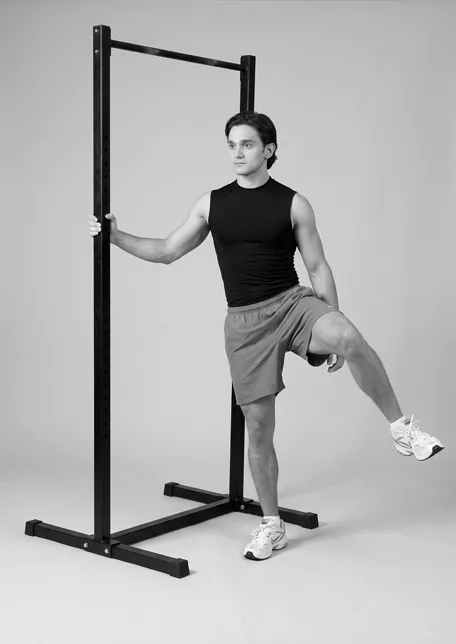
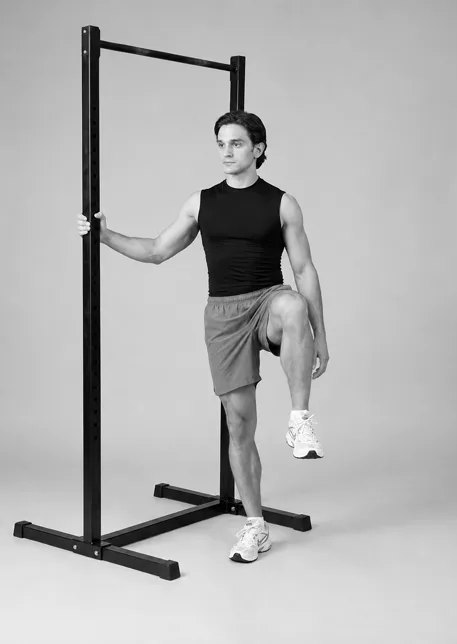
Mobility-Bilder nachgebessert: CARs mit zwei Bildern, 90/90-Ende gespiegelt, Knie zur Wand mit Wandkontakt

Changed region(s): [[0.0307, 0.0311, 0.9825, 0.9006]]

diff --git a/app/src/data/mobilityExercises.ts b/app/src/data/mobilityExercises.ts
@@ -45,7 +45,7 @@ export const MOBILITY_EXERCISES: Exercise[] = [
   },
   {
     id: 'shoulder-cars', name: 'Schulter-CARs', category: 'mobility',
-    primary: ['schulter_vorn', 'schulter_seit', 'schulter_hinten'], secondary: [], loadType: 'none', unit: 'seconds', genImage: 'shoulder_cars', noEndPhoto: true,
+    primary: ['schulter_vorn', 'schulter_seit', 'schulter_hinten'], secondary: [], loadType: 'none', unit: 'seconds', genImage: 'shoulder_cars',
     equipment: 'Ohne Gerät',
     setup: 'Aufrecht stehen, ein Arm gestreckt, Faust locker geschlossen, Rumpf angespannt.',
     steps: ['Den gestreckten Arm langsam vor dem Körper nach oben führen, oben die Handfläche nach außen drehen.', 'Hinter dem Körper wieder nach unten, so weit hinten wie möglich, ohne den Rumpf zu drehen.', 'Ein Kreis dauert etwa 10 s. Beide Seiten.'],
@@ -53,7 +53,7 @@ export const MOBILITY_EXERCISES: Exercise[] = [
   },
   {
     id: 'hip-cars', name: 'Hüft-CARs', category: 'mobility',
-    primary: ['huefte', 'gesaess'], secondary: ['bauch'], loadType: 'none', unit: 'seconds', genImage: 'hip_cars', noEndPhoto: true,
+    primary: ['huefte', 'gesaess'], secondary: ['bauch'], loadType: 'none', unit: 'seconds', genImage: 'hip_cars',
     equipment: 'Wand oder Gestell zum Abstützen',
     setup: 'Im Stand, eine Hand am Gestell, Standbein leicht gebeugt, Rumpf fest.',
     steps: ['Das Knie langsam nach vorn oben heben (Hüftbeugung), dann seitlich nach außen öffnen.', 'Aus der Öffnung das Bein nach hinten führen, Knie zeigt nach unten, und wieder nach vorn.', 'Ein Kreis dauert etwa 10 s, der Rumpf bleibt ruhig. Danach die Richtung wechseln. Beide Seiten.'],

diff --git a/docs/Uebergabe.md b/docs/Uebergabe.md
@@ -129,7 +129,7 @@ Umgesetzt, `tsc -b` und `check-plan.mjs` sauber, im Dev-Browser geprüft (Mobili
 - **41 Bilder für die 33 Mobility-Übungen** (38 endgültige, drei Nachbesserungen): 28 Einzelbilder „Haltung“ (`noEndPhoto`) für Halteübungen und Tests, fünf Paare Start/Ende (Cat-Cow, Open Book, Thread the Needle, Wall Slides, 90/90-Übergänge). `genImage` in `mobilityExercises.ts` ist gesetzt. Neue Spezifikation `scripts/kie-jobs/spec-mobility.mjs` (exportiert `TAG = 'mob'`, `MODEL`, `REF_FIELD`); `make.mjs` nimmt jetzt eine Spezifikationsdatei als zweites Argument und schreibt nach `batch-<TAG>-<phase>`. Job-Ordner: `batch-mob-start`, `batch-mob-end`, `batch-mob-redo`, `batch-mob-redo2`, `pilot`.
 - **Modellwahl:** Guthaben war 482 Credits, GPT Image 2 (18 je Bild) hätte nicht gereicht. Pilot: **Nano Banana 2** (`nano-banana-2`, Feld `image_input`) kostet **8 Credits** und trifft Stil und Standardposen; `nano-banana-2-lite` (4 Credits, Feld `image_urls`) verfehlt Posen. Alle 33 Startbilder und 5 Endbilder mit Nano Banana 2; Ausreißer im ersten Durchgang: Couch Stretch (Pilotbild übernommen), tiefe Kniebeuge (zu flach), Cobra (Hüfte in der Luft), 90/90-Test (Kniestand statt Sitz), Sleeper Stretch (Arm flach). Zweiter Durchgang mit Nano Banana 2 löste Kniebeuge und 90/90-Test (mit dem 90/90-Halten-Bild als Posenreferenz), Cobra, Open Book Ende und Sleeper Stretch erst mit **GPT Image 2**. Der User hat zwischendurch auf 1134 Credits aufgeladen; Stand nach dem Lauf 1116. Rohbilder (`.png`, jetzt auch `.jpg`) per `.gitignore` ausgeschlossen, ins Repo kommen nur die WebP-Dateien (alle 73 zusammen 772 kB). Raster zur Sichtung in `public/img/gen/_versuche/mob_raster_*.png` (lokal).
 - Skill `~/.claude/skills/kie-ai` um die gemessenen Preise und die Modellwahl ergänzt.
-- **Rückmeldung vom Handy steht aus** (Bilder und Mobility insgesamt).
+- **Rückmeldung des Users (26.09., abends):** „zumeist schon ganz gut“. Nachgebessert: **Schulter-CARs und Hüft-CARs** haben jetzt zwei Bilder (Arm oben / Arm hinten; Knie vorn / Knie seitlich; das alte Hüft-CARs-Bild wurde das Endbild, das Startbild mit ihm als Referenz erzeugt), **90/90-Übergänge** Endbild ist die gespiegelte Position (linkes Bein vorn), **Knie-zur-Wand-Mobilisation** zeigt jetzt den Wandkontakt (GPT Image 2 und Nano Banana Pro setzen den Fuß hartnäckig zu weit weg; gelöst mit zwei aufeinanderfolgenden Bearbeitungsschritten „move him 30 cm closer“ in Nano Banana Pro, Versuche in `_versuche/knee_wall_*`). Lehre: Bei Abstandsvorgaben zur Wand das Bild iterativ per Edit näher rücken statt neu generieren. Job-Ordner `batch-mob-redo3` bis `redo6`. Übrige Bilder will der User beim Ausführen prüfen; weitere Nachbesserungen bei Bedarf.
 
 ## Nächste Schritte
 

diff --git a/docs/Mobility.md b/docs/Mobility.md
@@ -78,4 +78,4 @@ Dazu zwei Fotos zu den Foto-Check-Terminen (Mehr → Foto-Check): tiefe Kniebeug
 - **Seiten:** `/mobility` (Routinen mit Tagesvorschlag, Check-Termine, Messwerte), Karte auf „Heute“ an Samstag und Sonntag, Hinweiskarte, wenn ein Check fällig ist, Zeile „Mobility ›“ an Trainingstagen, Eintrag unter „Mehr“.
 - **Auswertung:** Abschnitt „Mobility“ (Routinen je Woche, Check-Werte mit Verlauf; bei Überkopf-Reach und 90/90 ist kleiner besser, `LOWER_IS_BETTER` in `workouts.ts`). Mobility-Trainings zählen nicht als Plan-Einheit (`isMobilityWorkout()`, `isExtraWorkout()`).
 - **Fotos:** Posen `kniebeuge` und `ueberkopf` im Foto-Check.
-- **Bilder (26.09.2026):** alle 33 Übungen haben KI-Bilder (`genImage` in `mobilityExercises.ts`, 28 Halteübungen und Tests mit einem Bild „Haltung“, fünf Bewegungen mit Start und Ende). Erzeugt mit Nano Banana 2 (8 Credits je Bild) über `scripts/kie-jobs/spec-mobility.mjs` + `make.mjs start|end <spec>`; Ausreißer (Cobra, Open Book Ende, Sleeper Stretch) mit GPT Image 2 nachgebessert. Vom User am Handy noch nicht abgenommen.
+- **Bilder (26.09.2026):** alle 33 Übungen haben KI-Bilder (`genImage` in `mobilityExercises.ts`, 26 Halteübungen und Tests mit einem Bild „Haltung“, sieben Bewegungen mit Start und Ende: Cat-Cow, Open Book, Thread the Needle, Wall Slides, 90/90-Übergänge, Schulter-CARs, Hüft-CARs). Erzeugt mit Nano Banana 2 (8 Credits je Bild) über `scripts/kie-jobs/spec-mobility.mjs` + `make.mjs start|end <spec>`; Ausreißer (Cobra, Open Book Ende, Sleeper Stretch) mit GPT Image 2 nachgebessert. Vom User am Handy noch nicht abgenommen.
